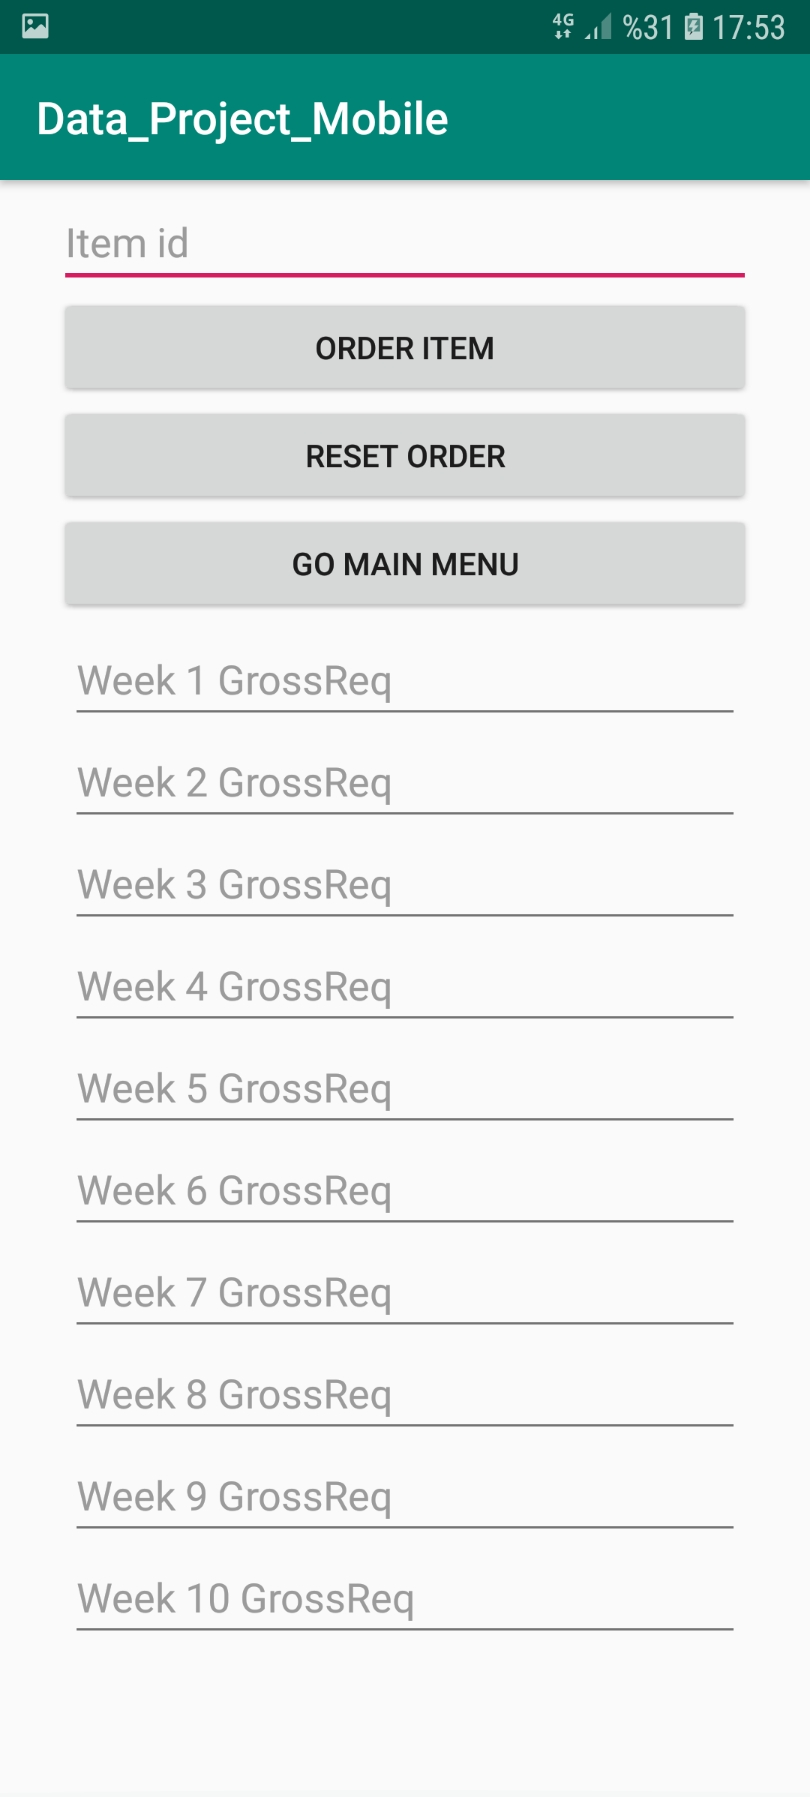
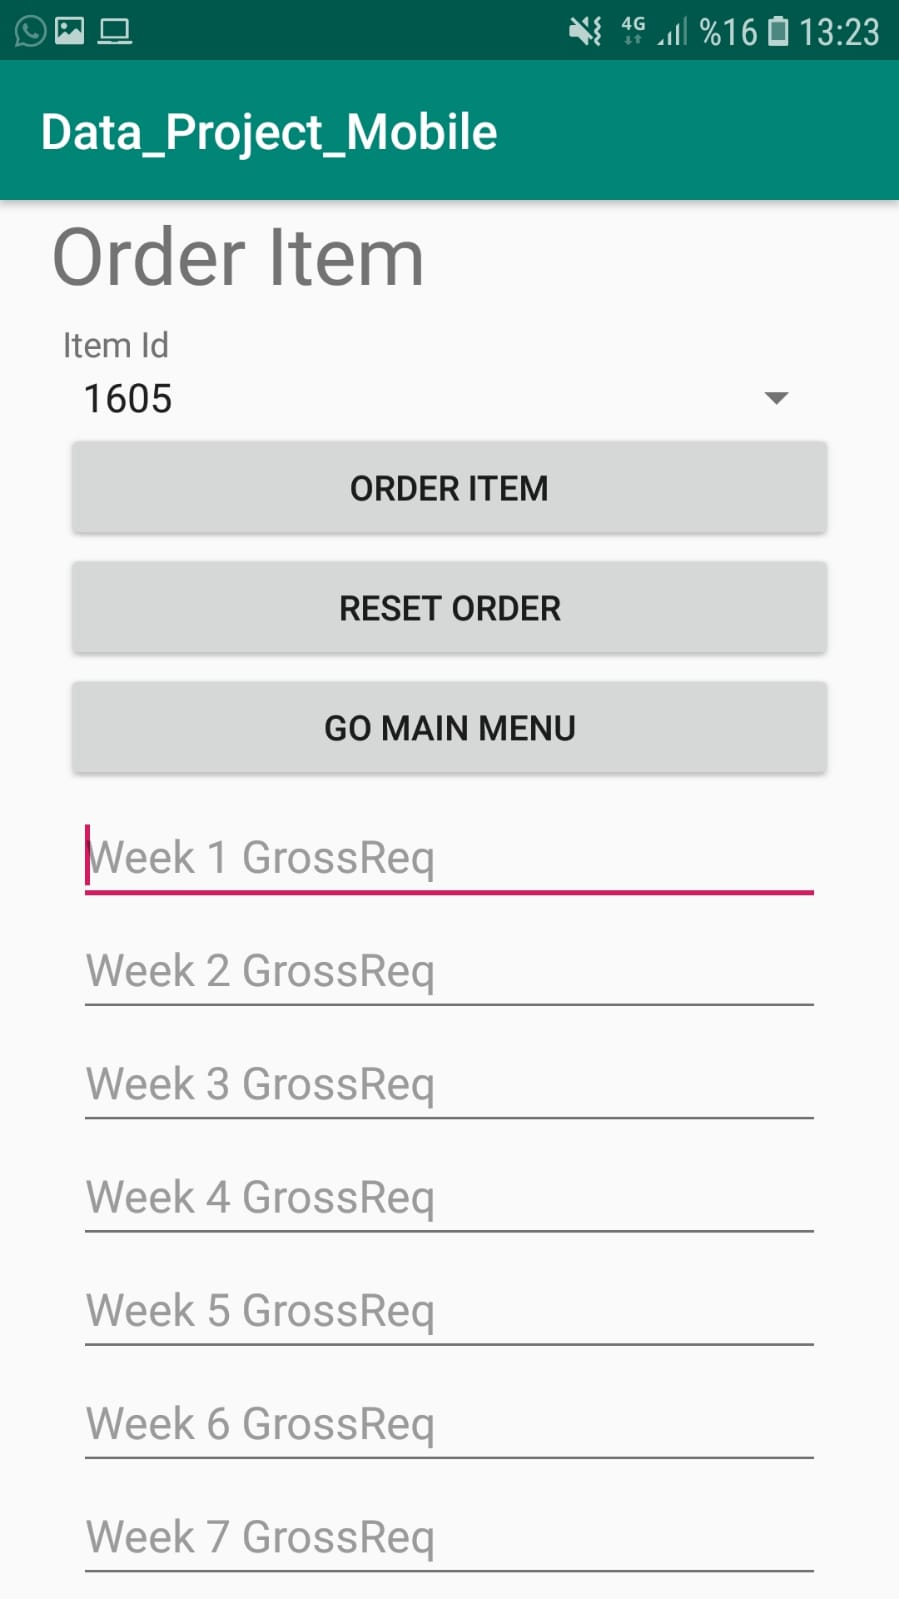
Item Tree Added with TreeView
-Item Tree Added with TreeView
-Dialog box added to clear database button
-Spinner added to order item page

diff --git a/Data_Project_Mobile/app/src/main/java/com/tohandesign/data_project_mobile/MainActivity.java b/Data_Project_Mobile/app/src/main/java/com/tohandesign/data_project_mobile/MainActivity.java
@@ -1,20 +1,26 @@
 package com.tohandesign.data_project_mobile;
 import androidx.appcompat.app.AppCompatActivity;
 
+import android.app.AlertDialog;
+import android.content.DialogInterface;
 import android.content.Intent;
 import android.os.Bundle;
 import android.view.View;
 import android.widget.Button;
-
+import android.widget.Toast;
 
 
 public class MainActivity extends AppCompatActivity {
 
     public DatabaseHelper db;
     public Intent invintent;
+    public Intent treeintent;
     public Intent orderintent;
     public Intent additemintent;
     public Intent upditemintent;
+
+    AlertDialog.Builder builder;
+
     @Override
     protected void onCreate(Bundle savedInstanceState) {
 
@@ -22,10 +28,11 @@ public class MainActivity extends AppCompatActivity {
         setContentView(R.layout.activity_main);
 
         db = new DatabaseHelper(getApplicationContext());
-
+        builder = new AlertDialog.Builder(this);
 
 
         invintent = new Intent(this, InventoryActivity.class);
+        treeintent = new Intent(this, TreeViewActivity.class);
         orderintent = new Intent(this, OrderItemActivity.class);
         additemintent = new Intent(this, AddItemActivity.class);
         upditemintent = new Intent(this, UpdItemActivity.class);
@@ -67,14 +74,52 @@ public class MainActivity extends AppCompatActivity {
             }
         });
 
+        Button itemTree = (Button)findViewById(R.id.itemTree);
+
+        itemTree.setOnClickListener(new View.OnClickListener() {
+            @Override
+            public void onClick(View view) {
+                startActivity(treeintent);
+            }
+        });
+
 
         Button clearDB = (Button)findViewById(R.id.clearDB);
 
         clearDB.setOnClickListener(new View.OnClickListener() {
             @Override
             public void onClick(View view) {
-                db.clearDB();
-                db.closeDB();
+
+
+                    String title = "Clear Database";
+                    String msg = "Are you sure you want to clear the database?";
+
+                    //Setting message manually and performing action on button click
+                    builder.setMessage(msg)
+                            .setTitle(title)
+                            .setCancelable(false)
+                            .setPositiveButton("Yes", new DialogInterface.OnClickListener() {
+                                public void onClick(DialogInterface dialog, int id) {
+                                    db.clearDB();
+                                    db.closeDB();
+                                    Toast.makeText(getApplicationContext(),"Database have been cleared",
+                                            Toast.LENGTH_SHORT).show();
+                                }
+                            })
+                            .setNegativeButton("No", new DialogInterface.OnClickListener() {
+                                public void onClick(DialogInterface dialog, int id) {
+                                    //  Action for 'NO' Button
+                                    dialog.cancel();
+                                    Toast.makeText(getApplicationContext(),"Nothing was deleted",
+                                            Toast.LENGTH_SHORT).show();
+                                }
+                            });
+                    //Creating dialog box
+                    AlertDialog alert = builder.create();
+                    alert.show();
+
+
+
             }
         });
 

diff --git a/Data_Project_Mobile/app/src/main/java/com/tohandesign/data_project_mobile/OrderItemActivity.java b/Data_Project_Mobile/app/src/main/java/com/tohandesign/data_project_mobile/OrderItemActivity.java
@@ -9,11 +9,15 @@ import android.os.Bundle;
 import android.text.TextUtils;
 import android.util.Log;
 import android.view.View;
+import android.widget.AdapterView;
+import android.widget.ArrayAdapter;
 import android.widget.Button;
 import android.widget.EditText;
+import android.widget.Spinner;
 import android.widget.Toast;
 
 import java.util.ArrayList;
+import java.util.List;
 
 public class OrderItemActivity extends AppCompatActivity {
 
@@ -26,6 +30,9 @@ public class OrderItemActivity extends AppCompatActivity {
     public static int[] grossreq = new int[10];
 
 
+    public String itemnumtext;
+    public String itemIds[];
+
     private Button orderbutton;
 
     public Intent intent;
@@ -37,6 +44,39 @@ public class OrderItemActivity extends AppCompatActivity {
 
 
         db = new DatabaseHelper(getApplicationContext());
+
+
+        List<ProductItem> items = db.getAllItems();
+        // Array of choices
+        itemIds = new String[items.size()];
+        int i = 0;
+        for(ProductItem item : items) {
+            itemIds[i] = item.getItemId();
+            i++;
+        }
+
+        // Selection of the spinner
+        Spinner spinner = (Spinner) findViewById(R.id.KEY_ITEM_ID);
+
+        // Application of the Array to the Spinner
+        ArrayAdapter<String> spinnerArrayAdapter = new ArrayAdapter<String>(this,   android.R.layout.simple_spinner_item, itemIds);
+        spinnerArrayAdapter.setDropDownViewResource(android.R.layout.simple_spinner_dropdown_item); // The drop down view
+        spinner.setAdapter(spinnerArrayAdapter);
+
+        spinner.setOnItemSelectedListener(new AdapterView.OnItemSelectedListener() {
+            public void onItemSelected(AdapterView<?> parent, View view, int pos, long id) {
+
+                if(itemIds.length != 0) {
+                    itemnumtext =(String) parent.getItemAtPosition(pos);
+
+
+                }
+
+            }
+            public void onNothingSelected(AdapterView<?> parent) {
+            }
+        });
+
 
 
         recyclerView= findViewById(R.id.cardlisterr);
@@ -53,7 +93,7 @@ public class OrderItemActivity extends AppCompatActivity {
         final EditText grosstext9 = (EditText)findViewById(R.id.editText9);
         final EditText grosstext10 = (EditText)findViewById(R.id.editText10);
 
-        final EditText itemnumEditText = (EditText)findViewById(R.id.itemnum);
+
 
 
         final Button resetOrder = (Button)findViewById(R.id.resetOrder);
@@ -62,7 +102,7 @@ public class OrderItemActivity extends AppCompatActivity {
             @Override
             public void onClick(View view) {
 
-                String itemnumtext = itemnumEditText.getText().toString();
+
                 if(!TextUtils.isEmpty(itemnumtext)){
                     mList.clear();
                     recyclerView.setAdapter(adapter);
@@ -125,7 +165,6 @@ public class OrderItemActivity extends AppCompatActivity {
                     if(item != null) {
                         calculate(item, grossreq);
                         itemnumtext = "";
-                        itemnumEditText.setText(itemnumtext);
                         onClick(view);
                     } else {
                         Toast.makeText(OrderItemActivity.this,"item not found", Toast.LENGTH_SHORT).show();

diff --git a/Data_Project_Mobile/app/src/main/java/com/tohandesign/data_project_mobile/TreeViewActivity.java b/Data_Project_Mobile/app/src/main/java/com/tohandesign/data_project_mobile/TreeViewActivity.java
@@ -1,0 +1,74 @@
+package com.tohandesign.data_project_mobile;
+
+import androidx.annotation.NonNull;
+import androidx.appcompat.app.AppCompatActivity;
+
+import android.os.Bundle;
+import android.view.View;
+
+
+import java.util.List;
+
+import de.blox.treeview.BaseTreeAdapter;
+import de.blox.treeview.TreeNode;
+import de.blox.treeview.TreeView;
+
+public class TreeViewActivity extends AppCompatActivity {
+
+
+    public DatabaseHelper db;
+
+
+    @Override
+    protected void onCreate(Bundle savedInstanceState) {
+        super.onCreate(savedInstanceState);
+        setContentView(R.layout.activity_tree_view);
+
+        db = new DatabaseHelper(getApplicationContext());
+        List<ProductItem> items = db.getAllItems();
+
+        TreeView treeView = (TreeView) findViewById(R.id.treeView);
+        BaseTreeAdapter adapter = new BaseTreeAdapter<ViewHolder>(this, R.layout.node) {
+
+            @NonNull
+            @Override
+            public ViewHolder onCreateViewHolder(View view) {
+                return new ViewHolder(view);
+            }
+
+            @Override
+            public void onBindViewHolder(ViewHolder viewHolder, Object data, int position) {
+                viewHolder.mTextView.setText(data.toString());
+                viewHolder.reqTextView.setText(db.getItem(Long.parseLong(data.toString())).getItemRequired()+ " Required");
+            }
+        };
+        treeView.setAdapter(adapter);
+
+        if(items.size()>0)
+            adapter.setRootNode(getNode(items.get(0), db));
+
+
+
+
+
+    }
+
+
+
+    //Getting root node from item list
+    private TreeNode getNode(ProductItem item, DatabaseHelper db) {
+        TreeNode node = new TreeNode(item.getItemId());
+        if(item.getChilds().size() > 0) {
+            for(Long lg: item.getChilds()){
+                TreeNode childnode = getNode(db.getItem(lg), db);
+                node.addChild(childnode);
+            }
+        }
+
+
+        return node;
+    }
+    //#Getting root node from item list
+
+
+}

diff --git a/Data_Project_Mobile/app/src/main/java/com/tohandesign/data_project_mobile/ViewHolder.java b/Data_Project_Mobile/app/src/main/java/com/tohandesign/data_project_mobile/ViewHolder.java
@@ -1,0 +1,13 @@
+package com.tohandesign.data_project_mobile;
+
+import android.view.View;
+import android.widget.TextView;
+
+class ViewHolder {
+    TextView mTextView;
+    TextView reqTextView;
+    ViewHolder(View view) {
+        mTextView = view.findViewById(R.id.textView);
+        reqTextView = view.findViewById(R.id.reqText);
+    }
+}

diff --git a/README.md b/README.md
@@ -3,9 +3,11 @@
 
 
 
+
 #  Advanced Mobile Inventory System <img src="http://img.shields.io/badge/-Java-F89820?style=flat&logo=java&logoColor=white">
 
-<img src = "/images/1.jpg" height="20%" width="20%"><img src = "/images/2.jpg" height="20%" width="20%"><img src = "/images/3.jpg" height="20%" width="20%"><img src = "/images/4.jpg" height="20%" width="20%"><img src = "/images/5.jpg" height="20%" width="20%">
+<img src = "/images/1.jpg" height="20%" width="20%"><img src = "/images/2.jpg" height="20%" width="20%"><img src = "/images/3.jpg" height="20%" width="20%">
+<img src = "/images/4.jpg" height="20%" width="20%"><img src = "/images/5.jpg" height="20%" width="20%"><img src = "/images/7.jpg" height="20%" width="20%">
 <br/>
 
 I developed a mobile app that takes bill of material and the gross requirements of the end item along with the stock, scheduled receipt, arrival on week, lead time and lot sizing rule information of the subcomponents to create MRP records for all parts and components.
@@ -18,13 +20,18 @@ This project has been developed using the **sqlite database**.
 ## System Operation
 
   
-There are 5 buttons in the main activity of application. These are **"INVENTORY"**, **"ORDER ITEM"**, **"ADD ITEM"**, **"UPDATE ITEM"** and **"CLEAR DATABASE"** buttons.
+There are 6 buttons in the main activity of application. These are **"INVENTORY"**, **"ITEM TREE"**, **"ORDER ITEM"**, **"ADD ITEM"**, **"UPDATE ITEM"** and **"CLEAR DATABASE"** buttons.
 
 ### "INVENTORY" button
 When the button is pressed, the inventory page opens and you can see the current stock status.
 >The data are recorded in the system as tables with the **sqlite database**.
 
 <br/><img src = "/images/2.jpg" height="30%" width="30%">
+
+### "ITEM TREE" button
+When the button is pressed, the item tree page opens. According to the products you add, an automatic tree is created and printed on the screen.
+
+<br/><img src = "/images/7.jpg" height="30%" width="30%">
 
 ### "ORDER ITEM" button
 When the button is pressed, the ordering page opens. Order is made by following the steps below.
@@ -57,6 +64,7 @@ When the button is pressed, if there is a value in the spinner, the delete dialo
 
 ### "CLEAR DATABASE" button
 When the button is pressed, it deletes all records in the system.
+<br/><img src = "/images/8.jpg" height="30%" width="30%">
 
 ## SQL Tables
 
